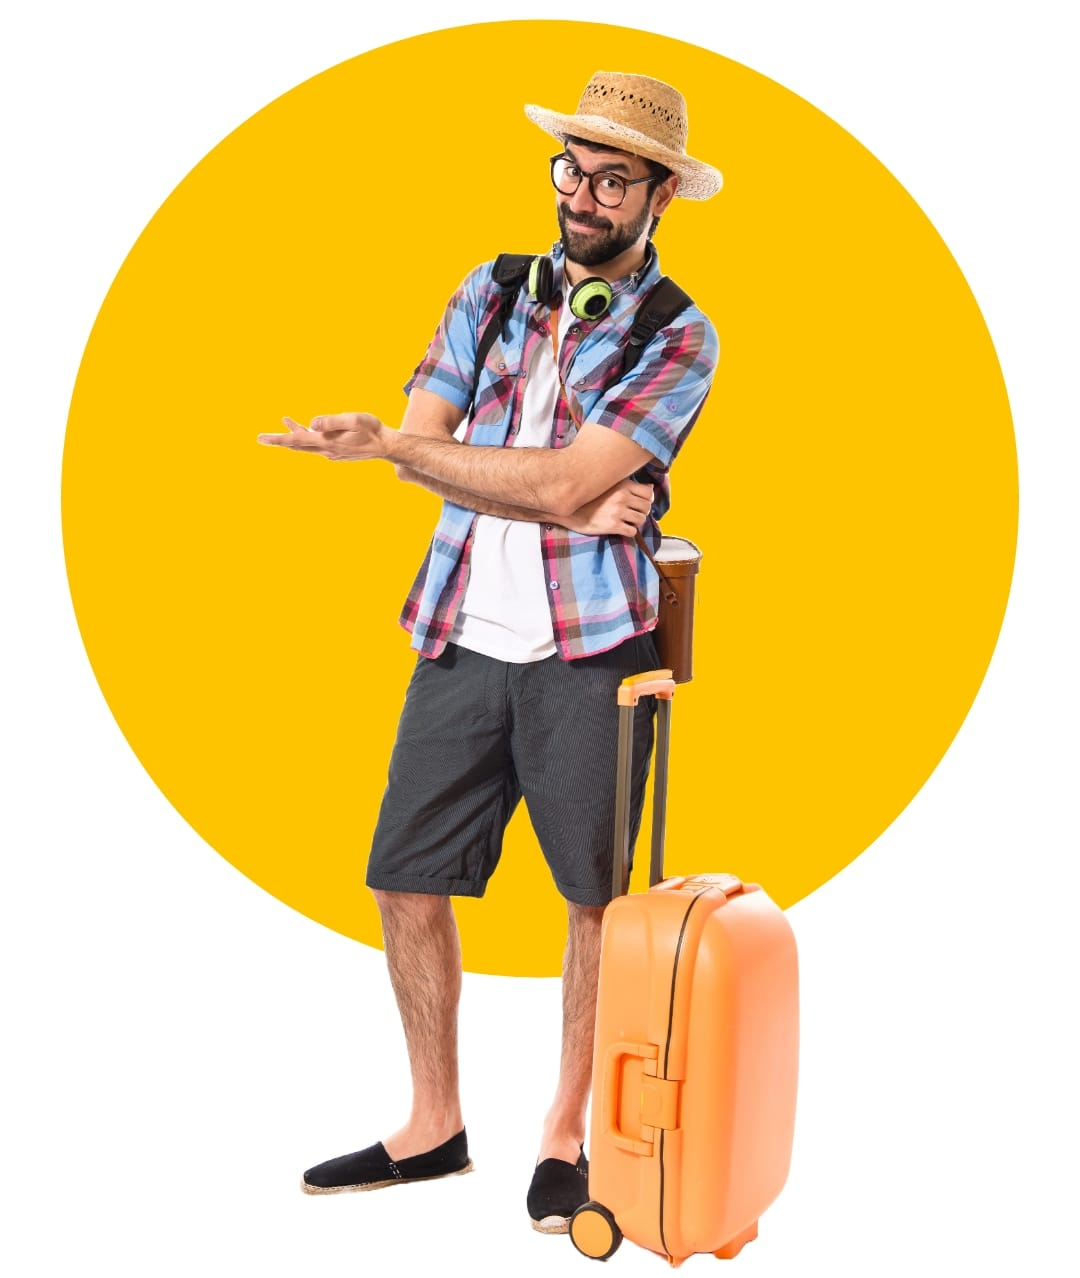
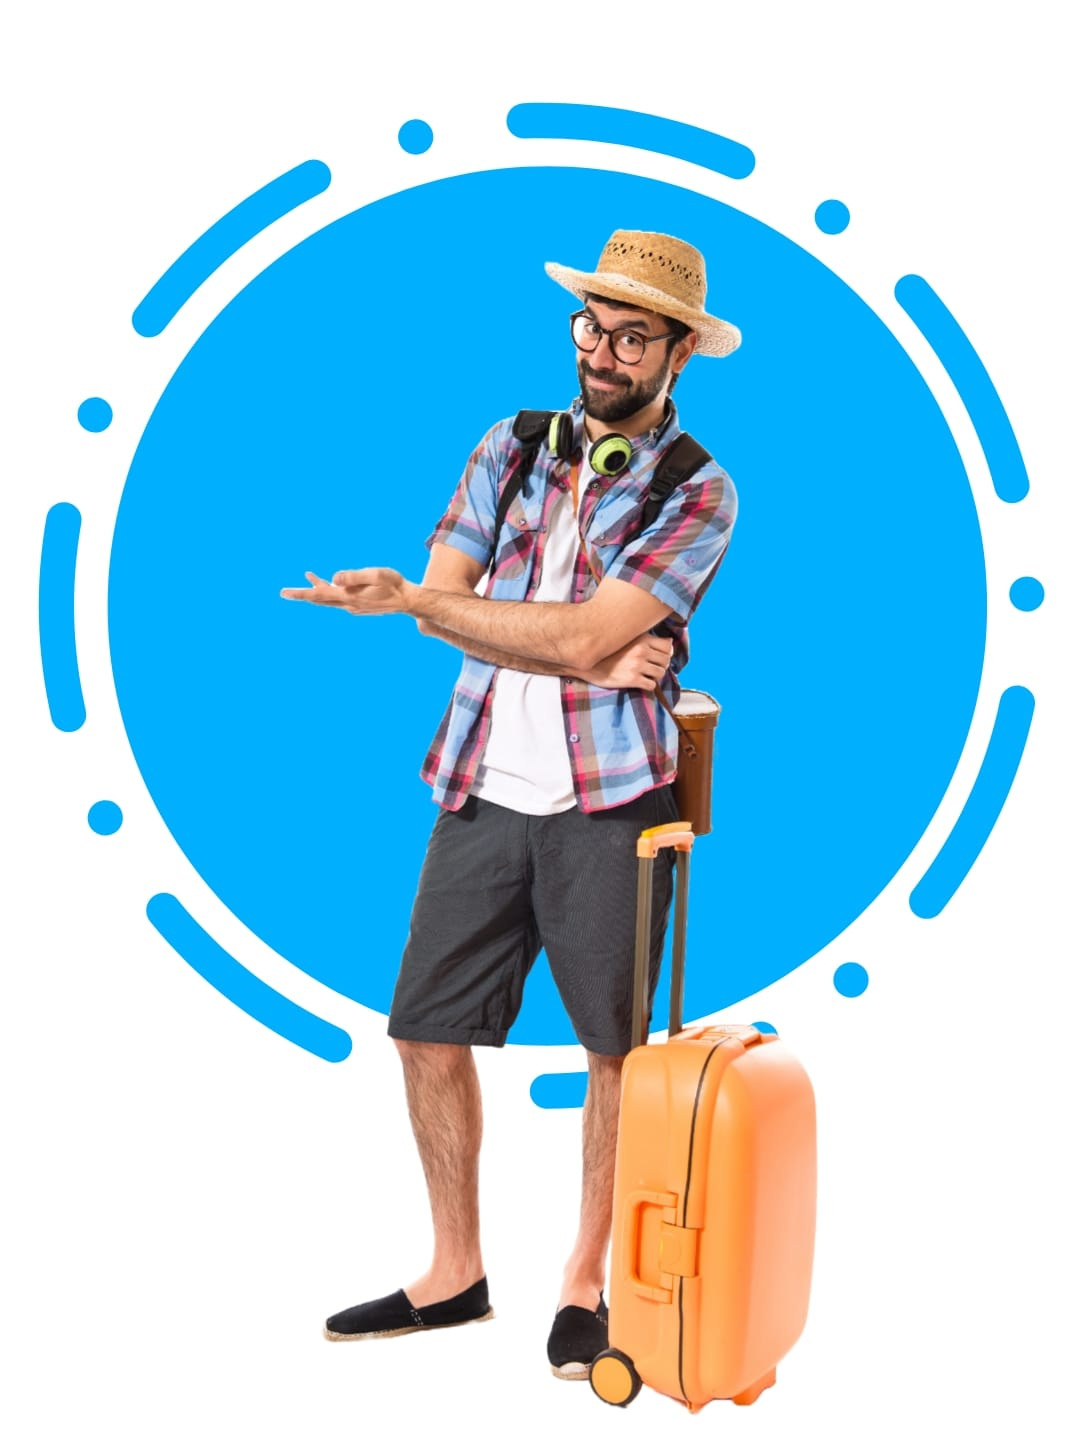
hero element added

diff --git a/index.html b/index.html
@@ -14,25 +14,66 @@
     <link rel="stylesheet" href="https://cdnjs.cloudflare.com/ajax/libs/font-awesome/6.6.0/css/all.min.css"
         integrity="sha512-Kc323vGBEqzTmouAECnVceyQqyqdsSiqLQISBL29aUW4U/M7pSPA/gEUZQqv1cwx4OnYxTxve5UMg5GT6L4JJg=="
         crossorigin="anonymous" referrerpolicy="no-referrer" />
+    <link rel="stylesheet"
+        href="https://fonts.googleapis.com/css2?family=Material+Symbols+Outlined:opsz,wght,FILL,GRAD@20..48,100..700,0..1,-50..200" />
 </head>
 
 <body>
-    <div class="container">
-        <div class="navbar font-white">
-            <h1 class="logo">Travio</h1>
-            <div class="nav-links">
-                <a href="#">Home</a>
-                <a href="#">Destinations</a>
-                <a href="#">Packages</a>
-                <a href="#">Blogs</a>
-                <a href="#">About Us</a>
+    <!-- NAVBAR -->
+    <div class="navbar font-white">
+        <h1 class="logo"><i class="fa-solid fa-plane fa-rotate-by"
+                style="color: #333A73; --fa-rotate-angle: -45deg;"></i>Travio</h1>
+        <div class="nav-links">
+            <a href="#">Home</a>
+            <a href="#">Destinations</a>
+            <a href="#">Packages</a>
+            <a href="#">Blogs</a>
+            <a href="#">About Us</a>
+        </div>
+        <button class="nav-btn">Sign up</button>
+        <div class="menu-btn">
+            <i class="fa-solid fa-bars" style="color: #00AFFE" ;></i>
+        </div>
+    </div>
+
+
+    <div class=" container">
+
+        <!-- HERO -->
+        <div class="hero">
+            <div class="hero-text">
+                <p class="main">Explore your travel</p>
+                <h1>Enjoy your life and go explore
+                    <i class="fa-solid fa-plane fa-rotate-by" style="color: #00AFFE; --fa-rotate-angle: -45deg;"></i>
+                </h1>
+                <p class="end">Travel is a transformative experience that broadens your perspective, refreshes your
+                    mind, and exposes you to new cultures, landscapes, and ideas. Here’s an overview of key aspects to
+                    consider when planning and thinking about travel.</p>
+                <div class="btns">
+                    <button class="btn1">Contact Us</button>
+                    <button class="btn2">Learn More</button>
+                </div>
             </div>
-            <button class="nav-btn">Sign up</button>
-            <div class="menu-btn">
-                <i class="fa-solid fa-bars" style="color: #ffffff;"></i>
+            <img class="hero-img" src="./assets/hero.jpg" alt="">
+        </div>
+
+        <!-- CATEGORIES -->
+        <div class="categories">
+            <div class="head1">
+                <p>Categories</p>
+                <div class="left-right">
+                    <span class="material-symbols-outlined left">
+                        expand_circle_right
+                    </span>
+                    <span class="material-symbols-outlined right">
+                        expand_circle_right
+                    </span>
+                </div>
             </div>
         </div>
     </div>
+
+
 
 </body>
 

diff --git a/style.css b/style.css
@@ -7,7 +7,7 @@
 /* NAVBAR */
 
 .navbar {
-  background-color: #029d9d;
+  background-color: #fff;
   width: 100%;
   height: 5rem;
   display: flex;
@@ -17,11 +17,11 @@
 
 .navbar a {
   text-decoration: none;
-  color: #ffffff;
+  color: #333a73;
 }
 
 .font-white {
-  color: #ffffff;
+  color: #00affe;
 }
 
 .nav-links {
@@ -38,11 +38,12 @@
 }
 
 .nav-links a:hover {
-  border-bottom: #ffffff 2px solid;
+  border-bottom: #00affe 3px solid;
 }
 
 .logo {
   margin-left: 10%;
+  display: flex;
 }
 
 .nav-btn {
@@ -50,8 +51,9 @@
   width: 8rem;
   border-radius: 8px;
   border: none;
-  color: #029d9d;
+  color: #00affe;
   background-color: #ffffff;
+  border: #00affe 2px solid;
   font-size: 18px;
   font-weight: 700;
   margin-right: 10%;
@@ -59,8 +61,7 @@
 
 .nav-btn:hover {
   color: #ffffff;
-  background-color: #029d9d;
-  border: 2px solid white;
+  background-color: #00affe;
   cursor: pointer;
 }
 
@@ -83,7 +84,7 @@
   }
 }
 
-@media (width <= 947px) {
+@media (width <= 1003px) {
   .nav-links,
   .nav-btn {
     display: none;
@@ -94,4 +95,118 @@
   .menu-btn {
     display: block;
   }
+}
+
+/*  HERO  */
+.container {
+  padding: 0 10%;
+}
+
+.hero {
+  display: flex;
+  align-items: center;
+}
+
+.hero-img {
+  width: 34vw;
+  height: fit-content;
+  max-width: 100%;
+}
+
+.hero-text {
+  margin-top: 6rem;
+}
+
+.hero-text .main {
+  font-family: "Comforter Brush", system-ui;
+  font-size: 300%;
+  font-weight: 550;
+  color: #00affe;
+  margin-right: 5px;
+  margin-bottom: 1.5rem;
+}
+
+.hero-text h1 {
+  font-family: "Abril Fatface", system-ui;
+  font-size: 5vw;
+  font-weight: 550;
+  color: #333a73;
+  margin-right: 5px;
+}
+
+.hero-text .end {
+  margin-top: 2rem;
+  color: #9bb7c8;
+}
+
+.btns {
+  margin-top: 2rem;
+}
+
+.btns .btn1 {
+  height: 3rem;
+  width: 8rem;
+  border-radius: 8px;
+  border: none;
+  color: #fff;
+  background-color: #00affe;
+  border: #00affe 2px solid;
+  font-size: 18px;
+  font-weight: 700;
+  margin-right: 2%;
+}
+
+.btns .btn1:hover {
+  color: #00affe;
+  background-color: #fff;
+  cursor: pointer;
+}
+
+.btns .btn2 {
+  height: 3rem;
+  width: 8rem;
+  border-radius: 8px;
+  border: none;
+  color: #333a73;
+  background-color: #ffffff;
+  border: #333a73 2px solid;
+  font-size: 18px;
+  font-weight: 700;
+}
+.btns .btn2:hover {
+  color: #00affe;
+  border: #00affe 2px solid;
+  cursor: pointer;
+}
+
+/* CATEGORIES */
+
+.categories {
+  margin-top: 4rem;
+}
+
+.categories .head1 {
+  display: flex;
+  justify-content: space-between;
+  align-items: center;
+}
+
+.categories .head1 p {
+  font-family: "Abril Fatface", system-ui;
+  color: #333a73;
+  font-size: 3.5rem;
+}
+
+.left-right {
+  margin-right: 10rem;
+  margin-top: 4px;
+  color: #333a73;
+  cursor: pointer;
+}
+
+.left-right .left {
+  font-size: 3.5rem;
+}
+.left-right .right {
+  font-size: 3.5rem;
 }
